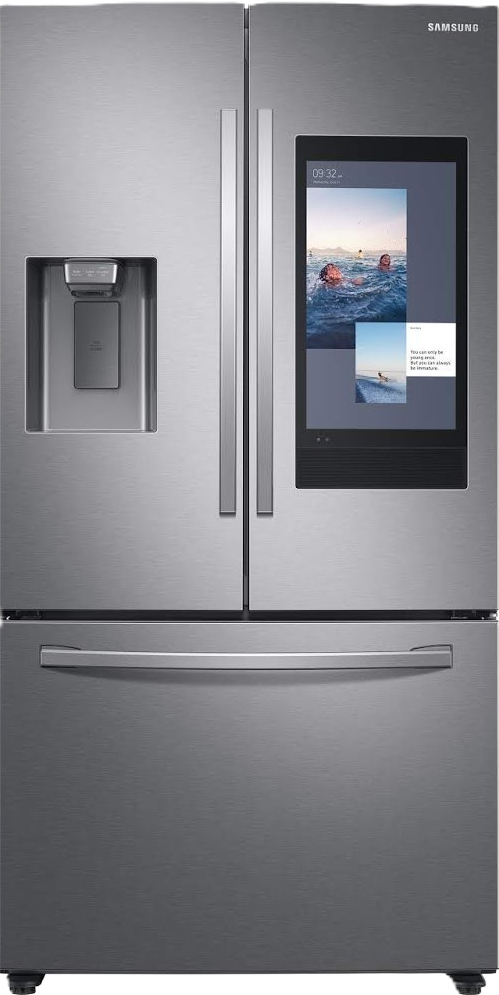
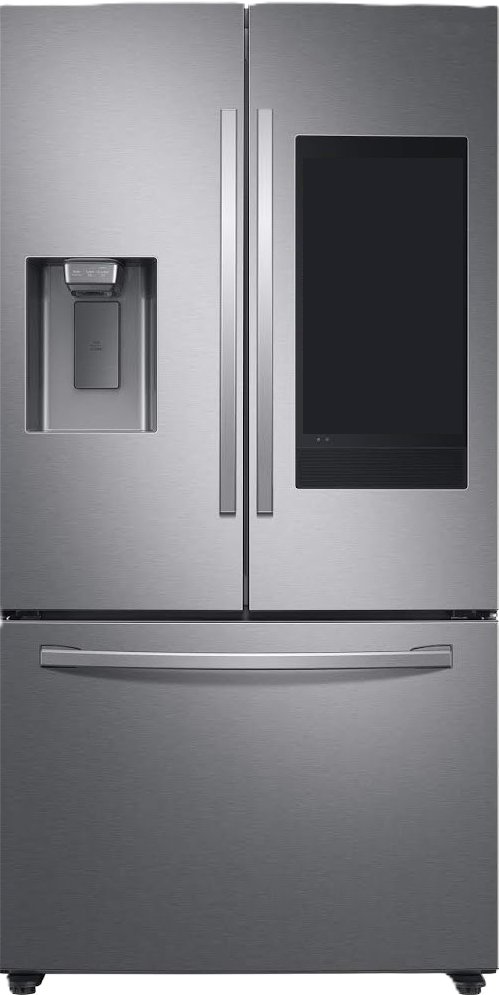
Reworked the fridge animation
- Rework the fridge animation
- Changed the image
- Added a placeholder div that is responsive to the screen size. This div will be used to start the interaction with the fridge.
- Removed old fridges images, clean and re-organized css

Changed region(s): [[0.6012, 0.1558, 0.9319, 0.4362], [0.8717, 0.0, 0.9619, 0.0312]]

diff --git a/simulation/simulation.js b/simulation/simulation.js
@@ -1,8 +1,11 @@
-const fridgeContainer = document.querySelector(".fridge-container");
 const screen = document.querySelector(".screen");
 const beginBtn = document.querySelector(".begin-simulation-btn");
+const frigoContainer = document.querySelector(".frigo-container");
+const frigo = document.querySelector(".frigo");
+const star_logo = document.querySelector(".star_logo");
+const screenInteract = document.querySelector(".interactable");
 
-function beginSimulation() {
+async function beginSimulation() {
   //TODO: Probably make it quick and subtle
   // It should take away the focus from the background and the user shouldnt directly noticed the background fade
   // Could see the fridge all the time and just zoom on start
@@ -11,10 +14,30 @@ function beginSimulation() {
   // Could make a really bright star in the middle and it will look like we are going to that star when going forward
   // and the star will be the fridge? ** Seems good, but hard
   beginBtn.style.display = "none";
-  fridgeContainer.classList.add("fridge-animation");
+
   setTimeout(() => {
-    screen.style.display = "flex";
-  }, 3000);
+    frigo.classList.add("frigo-animation");
+    frigoContainer.style.display = "block";
+  }, 1600);
+
+  setTimeout(() => {
+    positionStar();
+    star_logo.classList.add("animate_star");
+  }, 1600 + 900 + 100);
 
   //TODO: Fade out button
 }
+
+function positionStar() {
+  const rect = frigo.getBoundingClientRect();
+  const x = rect.left + rect.width * 0.75;
+  const y = rect.top + rect.height * 0.285;
+
+  star_logo.style.left = `${x}px`;
+  star_logo.style.top = `${y}px`;
+  screenInteract.style.left = `${x}px`;
+  screenInteract.style.top = `${y}px`;
+}
+
+window.addEventListener("resize", positionStar);
+window.addEventListener("scroll", positionStar);

diff --git a/simulation/simulation.css b/simulation/simulation.css
@@ -93,7 +93,7 @@ button:hover {
 /** Title Style  **/
 /** ############### **/
 .title {
-  margin-top: 8vh;
+  margin-top: 1vh;
   font-size: 5vw; /*TODO: Fix the font size (it's way too small on mobile)*/
   text-align: center;
   color: white;
@@ -101,6 +101,7 @@ button:hover {
   /* animation: fade-in ease-in-out 3000ms;  */
   z-index: 2;
   position: relative;
+  margin-bottom: 0;
 }
 
 @keyframes title-glow {
@@ -141,20 +142,10 @@ button:hover {
   }
 }
 
-/** ################################# **/
-/** Fridge and Fridge Screen Classes  **/
-/** ################################# **/
+/** ############### **/
+/** Screen Classes  **/
+/** ############### **/
 
-.fridge-container {
-  margin: auto;
-  text-align: center;
-  transform: scale(0.5);
-  opacity: 0;
-}
-
-.fridge-animation {
-  animation: fridge-animation 3000ms ease-in-out forwards;
-}
 .screen {
   display: none;
   /* display: flex; */
@@ -253,4 +244,55 @@ canvas {
   100% {
     opacity: 0.1;
   }
+}
+
+/** ############### **/
+/** Fridge Classes  **/
+/** ############### **/
+
+.frigo-container {
+  text-align: center;
+  display: none;
+  position: relative;
+  margin: 0 auto;
+}
+
+.frigo {
+  width: 1%;
+  opacity: 0;
+}
+
+.frigo-animation {
+  animation: 900ms frigo-animation ease-in-out forwards;
+}
+
+@keyframes frigo-animation {
+  0% {
+    opacity: 0;
+    width: 1%;
+  }
+  50% {
+    opacity: 0.4;
+  }
+  100% {
+    width: 40%;
+    opacity: 1;
+  }
+}
+
+/** ############### **/
+/** Star Classes  **/
+/** ############### **/
+.star_logo {
+  background-color: white;
+  width: 10px;
+  height: 10px;
+  position: fixed;
+}
+
+.interactable {
+  background-color: red;
+  width: 10px;
+  height: 10px;
+  position: fixed;
 }

diff --git a/simulation/simulation.html b/simulation/simulation.html
@@ -23,24 +23,16 @@
       Begin Simulation
     </button>
 
-    <div style="text-align: center">
+    <div class="frigo-container">
       <img
-        class="fridge_image"
+        class="frigo"
         src="/simulation/images/frigo.png"
         alt="Image of a fridge"
         width="50%"
         height="50%"
       />
-    </div>
-
-    <div class="fridge-container">
-      <img
-        class="fridge_image"
-        src="/simulation/images/fridge_Test2.png"
-        alt="Image of a fridge"
-        width="50%"
-        height="60%"
-      />
+      <div class="star_logo"></div>
+      <div class="interactable"></div>
     </div>
 
     <div class="screen">

diff --git a/simulation/star_background.js b/simulation/star_background.js
@@ -120,10 +120,6 @@ function setupCameraMovement() {
 
   let frameCount = 0;
   function animate() {
-    if (!isAnimating) {
-      return;
-    }
-
     requestAnimationFrame(animate);
 
     currentRotationX += (targetRotationX - currentRotationX) * 0.05;
@@ -181,7 +177,7 @@ async function beginSimulation() {
     ease: "power2.Out",
   });
 
-  document.querySelector("canvas").classList.add("dim-background");
+  // document.querySelector("canvas").classList.add("dim-background");
   setTimeout(() => {
     isAnimating = false;
   }),
